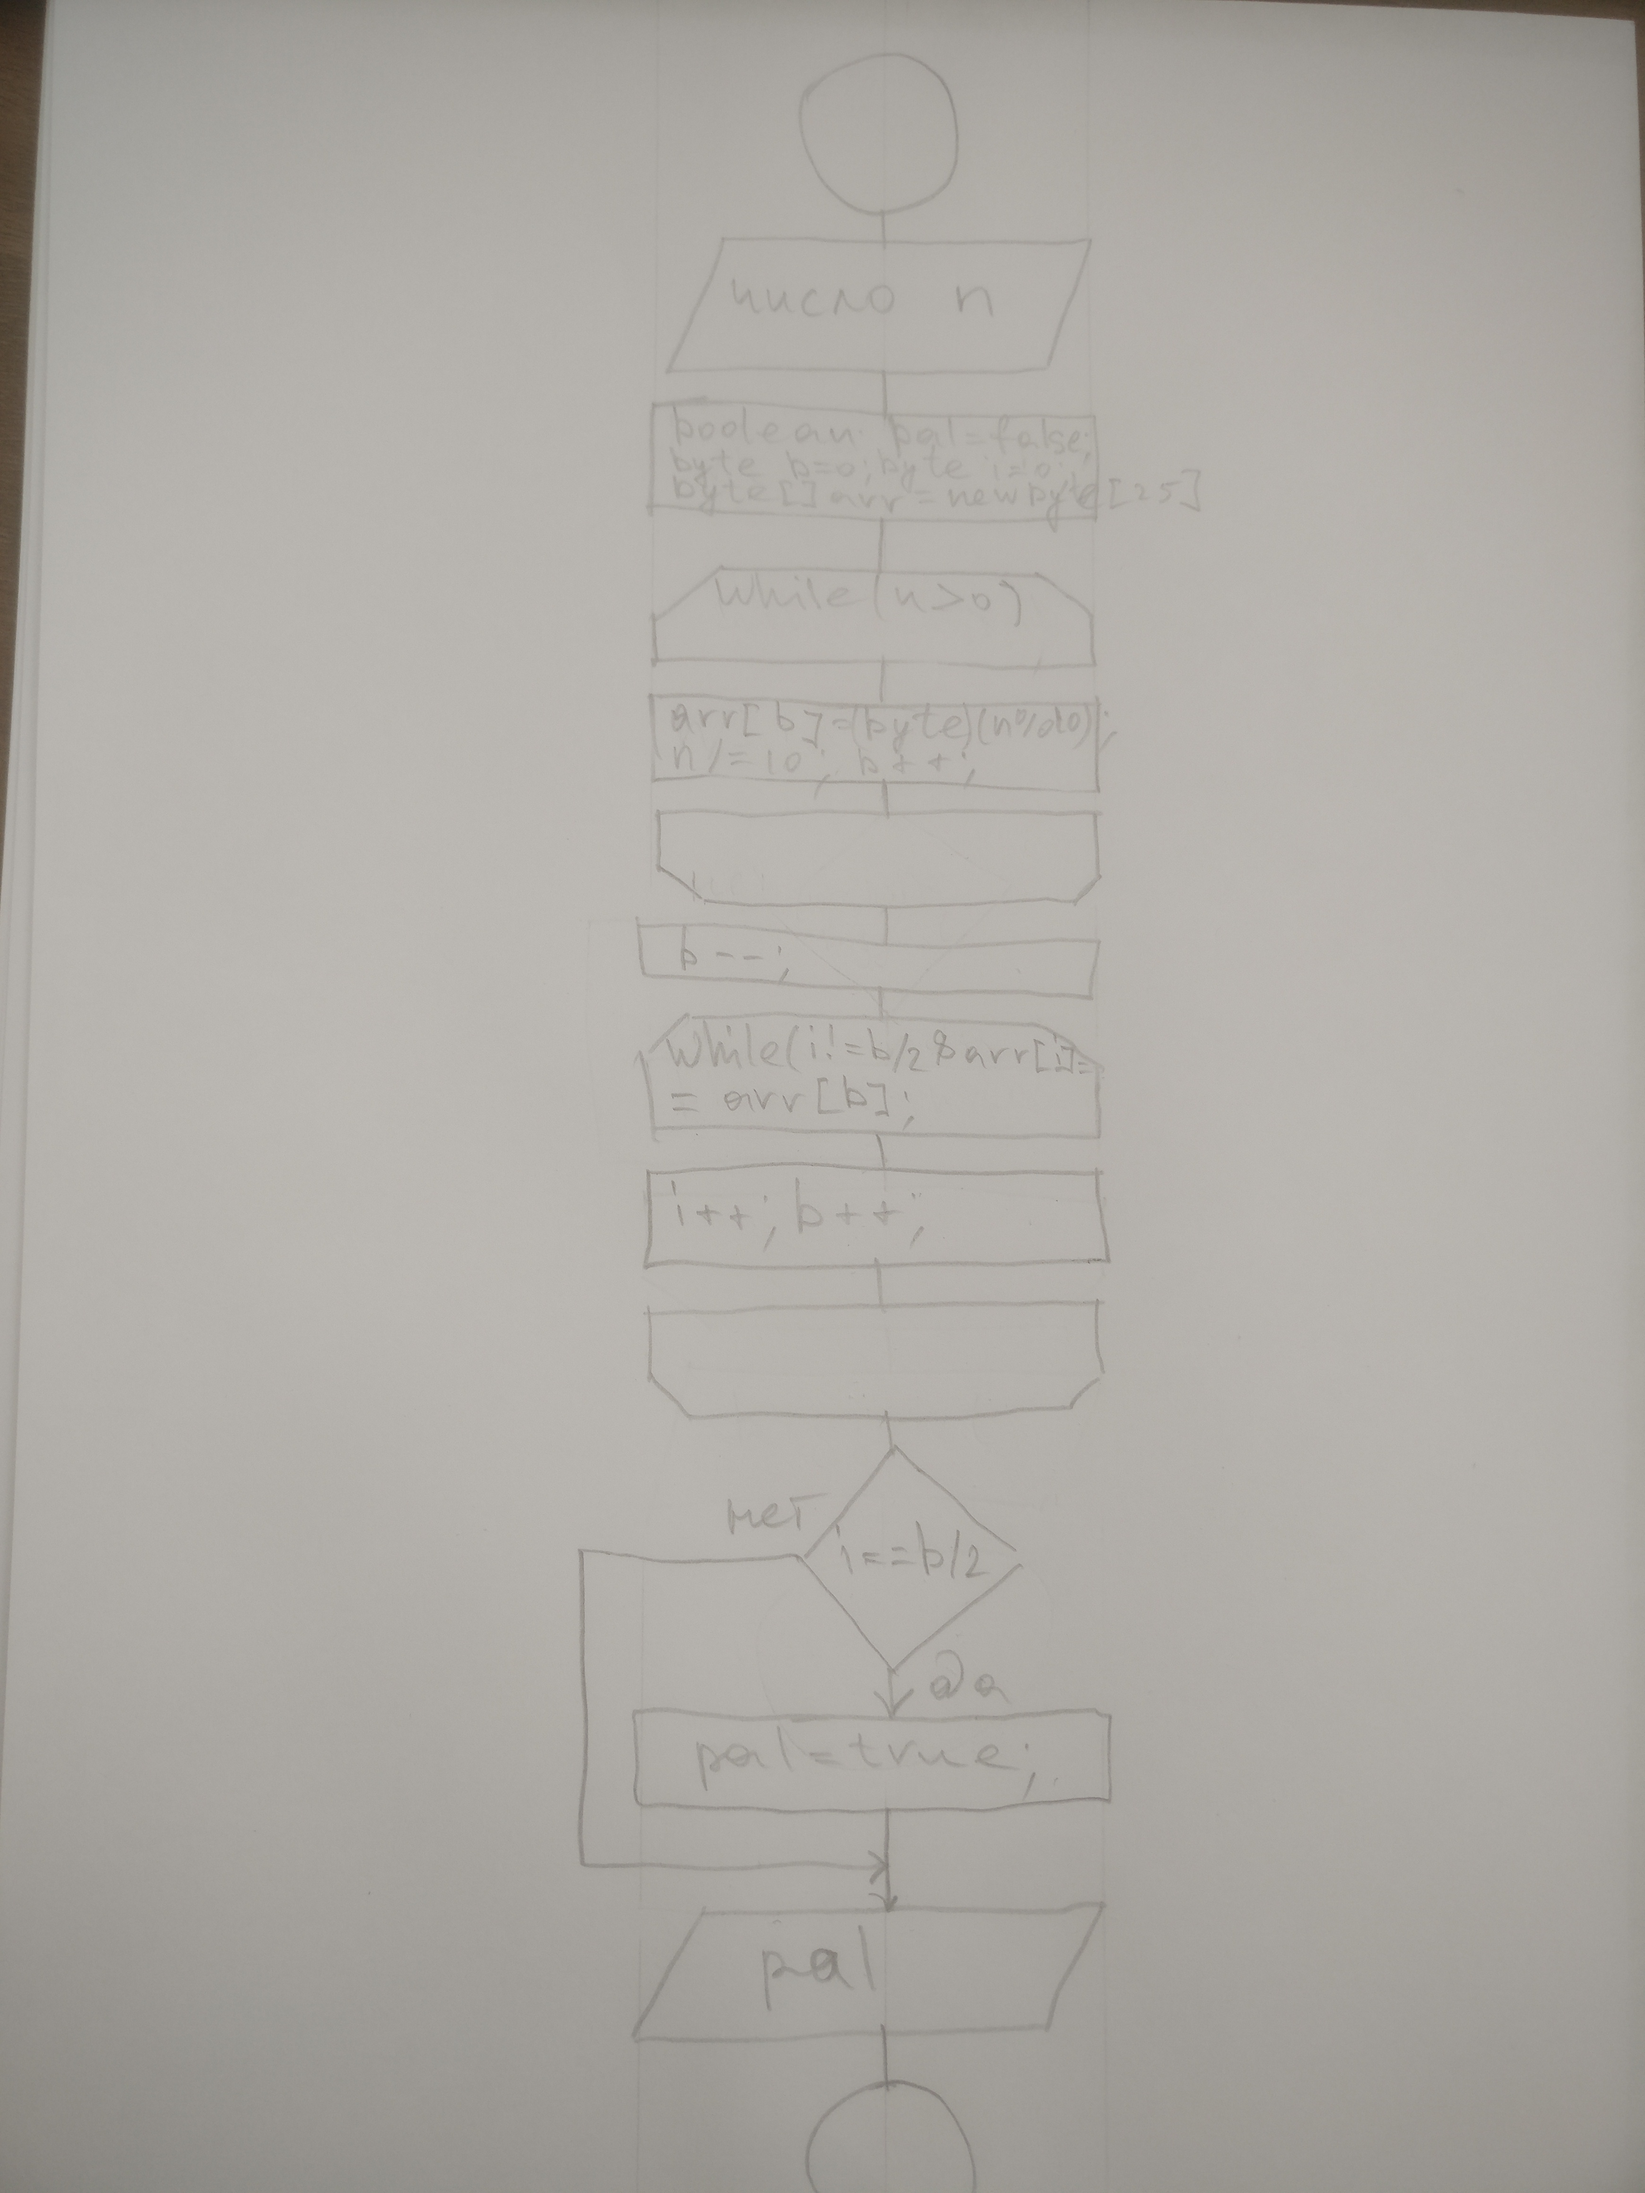
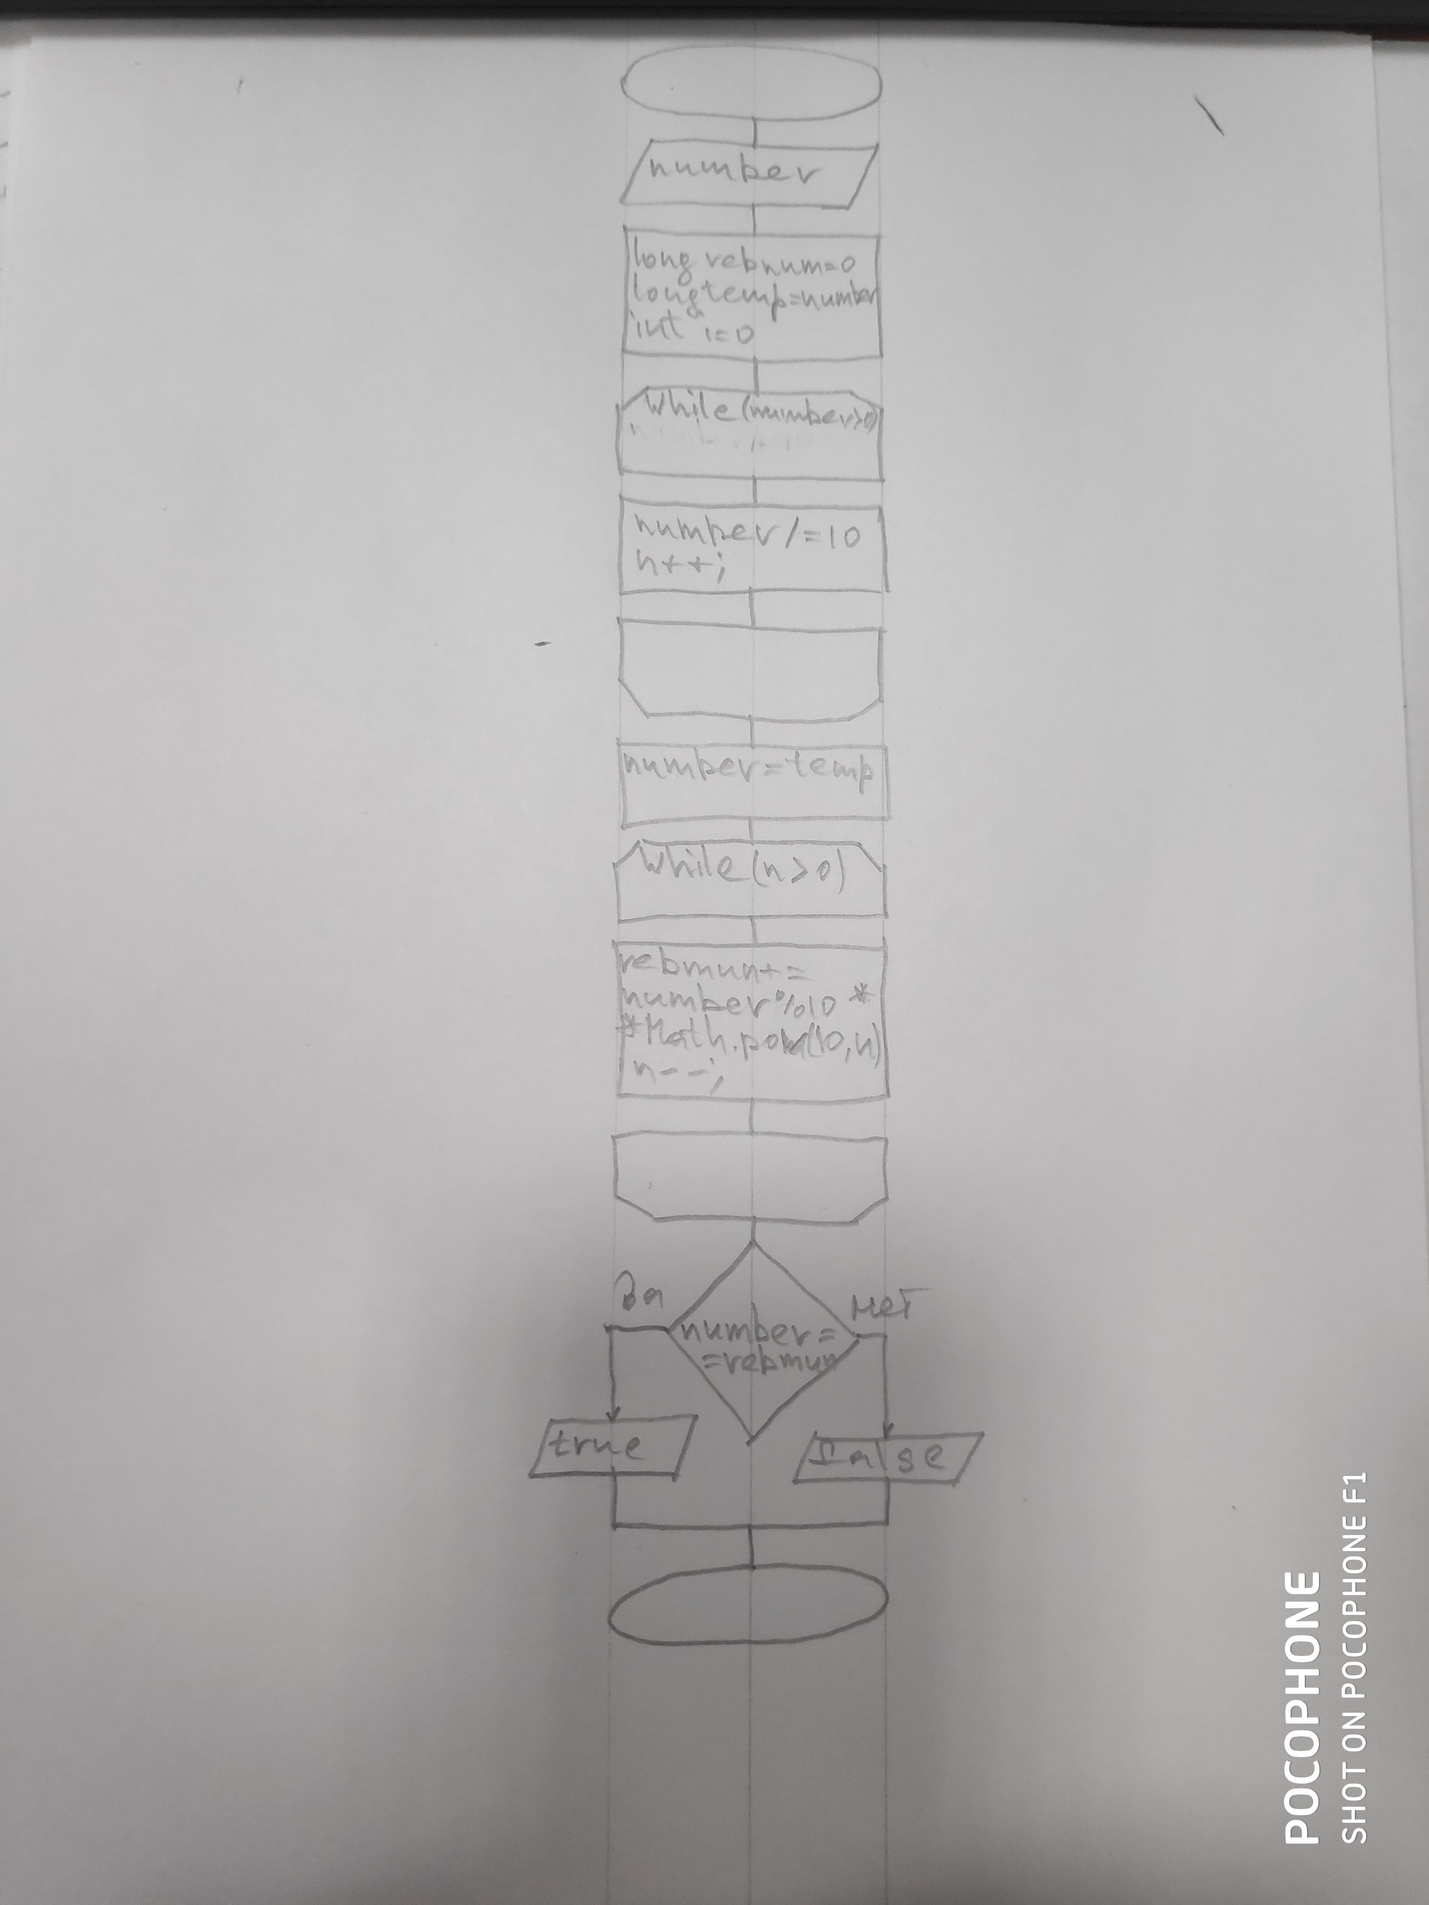
s

diff --git a/22-2-6/Main.java b/22-2-6/Main.java
@@ -1,0 +1,55 @@
+package com.company;
+class MyException extends Exception{
+    String out="Not correct number!";
+}
+public class Main {
+
+    public static void main(String[] args) {
+        int a = 444;
+        int b = 1110;
+        int i = 1;
+        int res = 1;
+        try {
+            if (a < 1 || b < 1) {
+                throw new MyException();
+            }
+            if (a == b) {
+                res = a;
+            } else {
+                if (a > b) {
+                    if (a % b == 0) {
+                        res = b;
+                    } else {
+                        while (i < b) {
+                            if (a % i == 0 & b % i == 0) {
+                                res = i;
+                                i++;
+                            } else {
+                                i++;
+                            }
+                        }
+                    }
+                }
+                else {
+                    if (b % a == 0) {
+                        res = a;
+                    } else {
+                        while (i < a) {
+                            if (a % i == 0 & b % i == 0) {
+                                res = i;
+                                i++;
+                            } else {
+                                i++;
+                            }
+                        }
+                    }
+                }
+            }
+            System.out.println(res);
+        } catch (MyException e) {
+            System.out.println(e.out);
+        }
+    }
+}
+
+

diff --git a/22-2-2/Main.java b/22-2-2/Main.java
@@ -3,25 +3,22 @@ package com.company;
 public class Main {
 
     public static void main(String[] args) {
-        long n=123458754321L;
-        boolean pal=false;
-        byte b=0;
-        byte i=0;
-        byte[]arr=new byte[25];
+        long number=12345844321L;
+        long rebmun=0;
+        long temp=number;
+        int n=0;
+        while(number>0) {
+            number /= 10;
+            n++;
+        }
+        number=temp;
         while(n>0){
-            arr[b]=(byte)(n%10);
-            n/=10;
-            b++;
+            rebmun+=number%10*Math.pow(10,n);
+            number/=10;
+            n--;
+
         }
-        b--;
-        while(i!=b/2&arr[i]==arr[b]){
-            i++;
-            b--;
-        }
-        if(i==b/2){
-            pal=true;
-        }
-        System.out.println(pal);
+        System.out.println(number==rebmun);
     }
 }
 

diff --git a/22-2-7/Main.java b/22-2-7/Main.java
@@ -1,0 +1,24 @@
+package com.company;
+
+public class Main {
+
+    public static void main(String[] args) {
+        long number=1234567890L;
+        long temp=0;
+        int count=0;
+        for(int i=0;i<10;i++){
+            temp=number;
+            while(temp>0) {
+                if (temp % 10 == i) {
+                    count++;
+                    break;
+                } else {
+                    temp /= 10;
+                }
+            }
+        }
+        System.out.println(count);
+    }
+}
+
+
